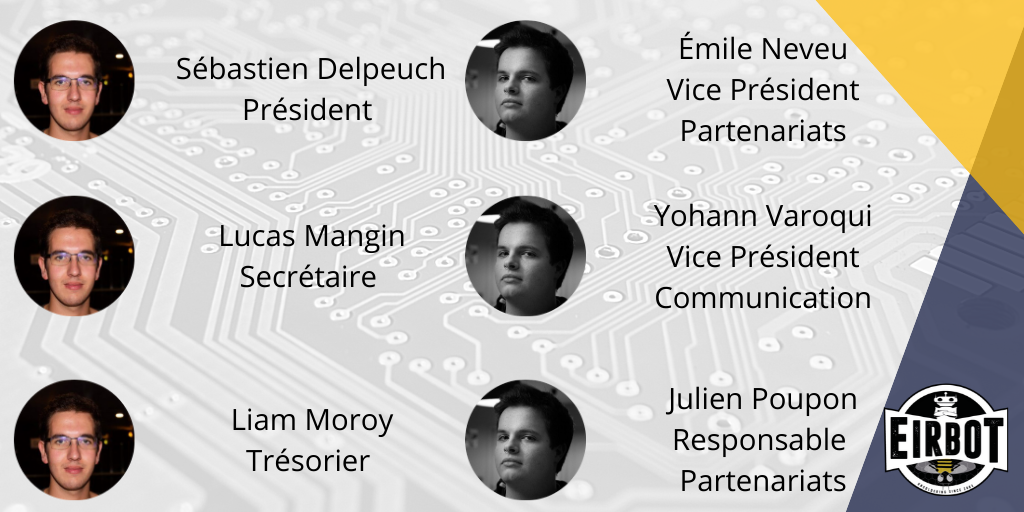
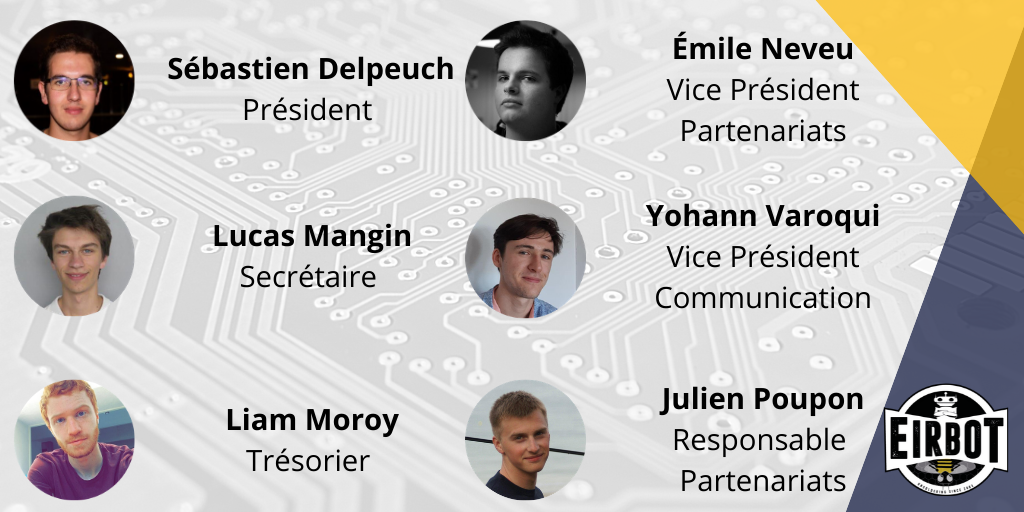
Add passation post

diff --git a/_sass/styles.scss b/_sass/styles.scss
@@ -187,7 +187,7 @@ button,
 }
 
 .card-body{
-  width:70%;
+  width:80%;
   padding-left:10px;
   margin-top:10px;
   transition:.3s;

diff --git a/membre/e851a1128acf6b7fb9c5830a423f0696da4c95ac/index.md b/membre/e851a1128acf6b7fb9c5830a423f0696da4c95ac/index.md
@@ -119,9 +119,33 @@ hide: true
 </center>
 
 ## <i class="fas fa-boxes"></i> Inventaire
+  
+  
+<div class="card-container">
+<div class="card-deck flex-row flex-nowrap">
+  <div class="card">
+    <a href="/assets/md/inventaire"><img src="/assets/images/inventaire.png"
+                                        height="200 px" alt="Card image cap"></a>
+    <a href="/assets/md/inventaire">
+      <div class="card-body">
+        <a href="/assets/md/inventaire"><h3 class="card-subalign-middle">Inventaire</h3></a>
+      </div><!-- END CARD-BODY -->
+    </a>
+  </div><!-- END CARD -->
+</div><!-- END CARD DECK -->
 
-[Inventaire](/assets/md/inventaire){:class="button reversed scrolly"}
-[Base de données](/assets/md/base){:class="button reversed scrolly"}
+<div class="card-deck flex-row flex-nowrap">
+  <div class="card">
+    <a href="/assets/md/base"><img src="/assets/images/inventaire2.png"
+                                        height="200 px" alt="Card image cap"></a>
+    <a href="/assets/md/base">
+      <div class="card-body">
+        <a href="/assets/md/base"><h3 class="card-sub align-middle">Base de données</h3></a>
+      </div><!-- END CARD-BODY -->
+    </a>
+  </div><!-- END CARD -->
+</div><!-- END CARD DECK -->
+</div>
 
 ## <i class="far fa-lightbulb"></i> Chloé la boite à idées
 
@@ -151,19 +175,62 @@ marginwidth="0">Chargement…</iframe>
 
 ## <i class="fab fa-leanpub"></i> Formations Eirbot
 
-### Informatique 
-[Github](/assets/md/formation/learn_git){:class="button"}
-[Makefile](/assets/md/formation/learn_makefile){:class="button"}
-[Cmake](/assets/md/formation/learn_cmake){:class="button"}
+<div class="card-container">
+ <div class="card-test">
+    <div class="image">
+      <img src="/assets/images/circle-programmation.png"/>
+    </div>
+    <div class="details">
+      <div class="center">
+        <h1>Informatique<br></h1>
+        <a href="/assets/md/formation/learn_git"><p>Git</p></a>
+        <a href="/assets/md/formation/learn_makefile"><p>Makefile</p></a>
+        <a href="/assets/md/formation/learn_cmake"><p>Cmake</p></a>
+      </div>
+    </div>
+  </div>
+  
+ <div class="card-test">
+    <div class="image">
+      <img src="/assets/images/circle-mecanique.png"/>
+    </div>
+    <div class="details">
+      <div class="center">
+        <h1>Mécanique<br></h1>
+        <p>Imprimante 3D, Découpeuse Laser, CNC ...</p>
+        <!-- <ul> -->
+        <!--   <li><a href="#"><i class="fa fa-facebook" aria-hidden="true"></i></a></li> -->
+        <!--   <li><a href="#"><i class="fa fa-twitter" aria-hidden="true"></i></a></li> -->
+        <!--   <li><a href="#"><i class="fa fa-google-plus" aria-hidden="true"></i></a></li> -->
+        <!--   <li><a href="#"><i class="fa fa-linkedin" aria-hidden="true"></i></a></li> -->
+        <!--   <li><a href="#"><i class="fa fa-instagram" aria-hidden="true"></i></a></li> -->
+        <!-- </ul> -->
+      </div>
+    </div>
+  </div>
+  
+  
+ <div class="card-test">
+    <div class="image">
+      <img src="/assets/images/circle-alimentation.png"/>
+    </div>
+    <div class="details">
+      <div class="center">
+        <h1>Électronique<br></h1>
+        <p>Comment créer une carte de A à Z</p>
+      </div>
+    </div>
+  </div>
+  </div>
+  
+<!-- ### Informatique  -->
+<!-- [Github](/assets/md/formation/learn_git){:class="button"} -->
+<!-- [Makefile](/assets/md/formation/learn_makefile){:class="button"} -->
+<!-- [Cmake](/assets/md/formation/learn_cmake){:class="button"} -->
 
 <!-- [Doxygen <i class="fas fa-wrench"></i>](/assets/md/formation/learn_doxygen){:class="button fix"} -->
 <!-- [Latex <i class="fas fa-wrench"></i>](/assets/md/formation/learn_latex/learn_latex){:class="button fix"} -->
 <!-- [Vrac <i class="fas fa-wrench"></i>](/assets/md/formation/learn_vrac){:class="button fix"} -->
-
-## <i class="fas fa-file-powerpoint"></i> Documents de présentation
-
-[Dossier](/assets/dossier.pdf){:class="button"}
-[Plaquette](/assets/plaquette.pdf){:class="button"}
 
 <!------------------->
 <!-- SCRIPT DIVERS -->
@@ -252,3 +319,68 @@ function reponse()
   alert("Nous ne sommes pas en réunion !")
 }
 </script>
+
+<style>
+body {
+    margin: 0;
+    padding: 0;
+    background: #41484c;
+    font-family: sans-serif;
+}
+.card-test {
+    float:left;
+    position: relative;
+    margin-left:20px;
+    width: 200px;
+    background: #F5fafa;
+}
+.card-test .image {
+    width: 100%;
+    height: 100%;
+    overflow: hidden;
+}
+.card-test .image img {
+    width: 100%;
+    transition: .5s;
+}
+.card-test:hover .image img {
+    opacity: .5;
+    transform: translateX(30%);/*100%*/
+}
+.card-test .details {
+    position: relative;
+    border-radius:10px 10px;
+    background: #41484c;
+    transition: .5s;
+    transform-origin: left;
+    transform: perspective(2000px) rotateY(-90deg);
+}
+.card-test:hover .details {
+    transform: perspective(2000px) rotateY(0deg);
+}
+.card-test .details .center {
+    padding: 20px;
+    border-radius:10px 10px;
+    text-align: center;
+    background: #41484c;
+    position: absolute;
+    top: -100px ;
+    transform: translateY(-50%);
+}
+.card-test .details .center h1 {
+    margin: 0;
+    padding: 0;
+    color: #e5e539;
+    text-transform: uppercase;
+}
+.card-test .details .center h1 span {
+    font-size: 14px;
+    color: #262626;
+}
+.card-test .details .center p {
+    margin: 10px 0;
+    padding: 0;
+    color: white;
+}
+
+</style>

diff --git a/_posts/2020-07-02-passation.md b/_posts/2020-07-02-passation.md
@@ -1,0 +1,14 @@
+---
+title: Passation de l'association
+author: Sébastien
+layout: blog
+icon : fa-users
+---
+
+Les petites loutres d’eirbot sont bien grandes maintenant, il est temps pour elles de prendre la relève.
+Après une longue attente nous avons enfin pu rassembler le conseil
+d'administration pour élire ses nouveaux représentants. 
+
+Le nouveau bureau est composé des membres suivants 
+
+![Bureau](/assets/images/bureau.png){:class="image about center"}

diff --git a/assets/md/projet1A.md b/assets/md/projet1A.md
@@ -2,9 +2,7 @@
 title: Projets 1A 
 layout: page
 hide: true
-permalink: /assets/md/projet1A
 ---
-
 Chaque année des nouveaux arrivent, nous leurs proposons alors de réaliser des
 projets pour s'initier aux différents outils que propose Eirbot et l'Enseirb
 Matmeca. Les sujets des projets ne sont pas imposés, les nouveaux sont libres de
